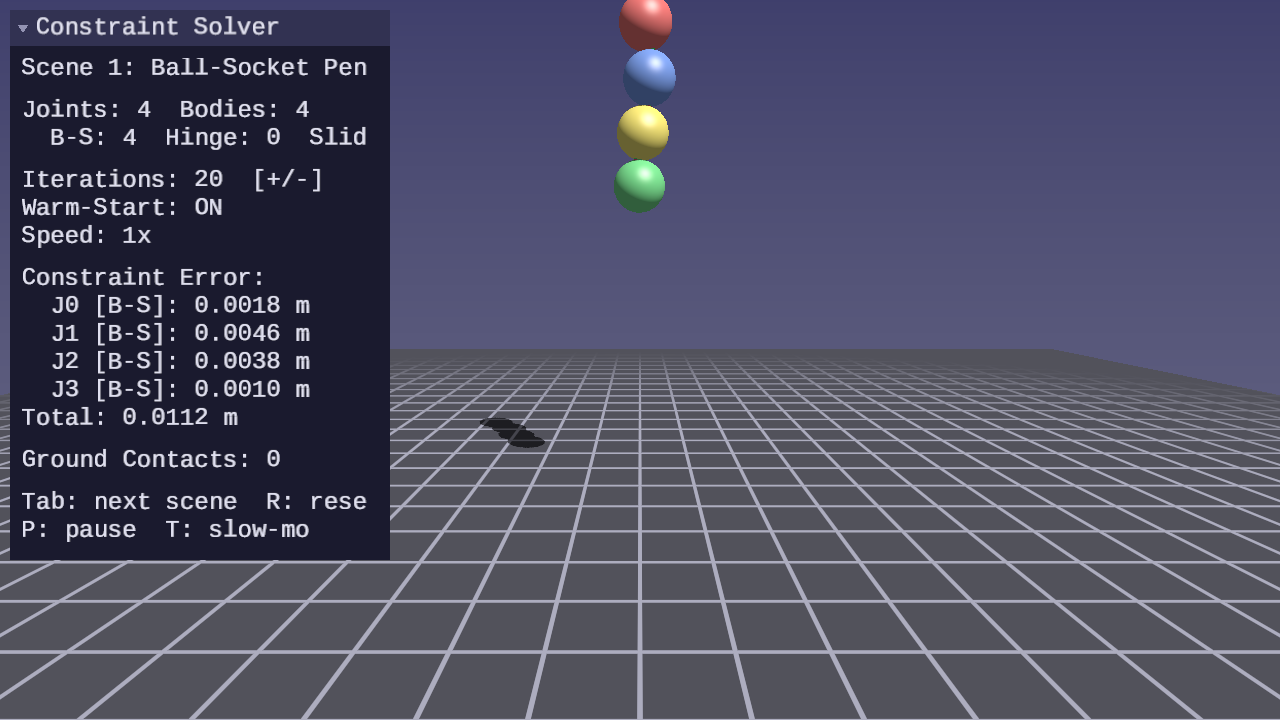
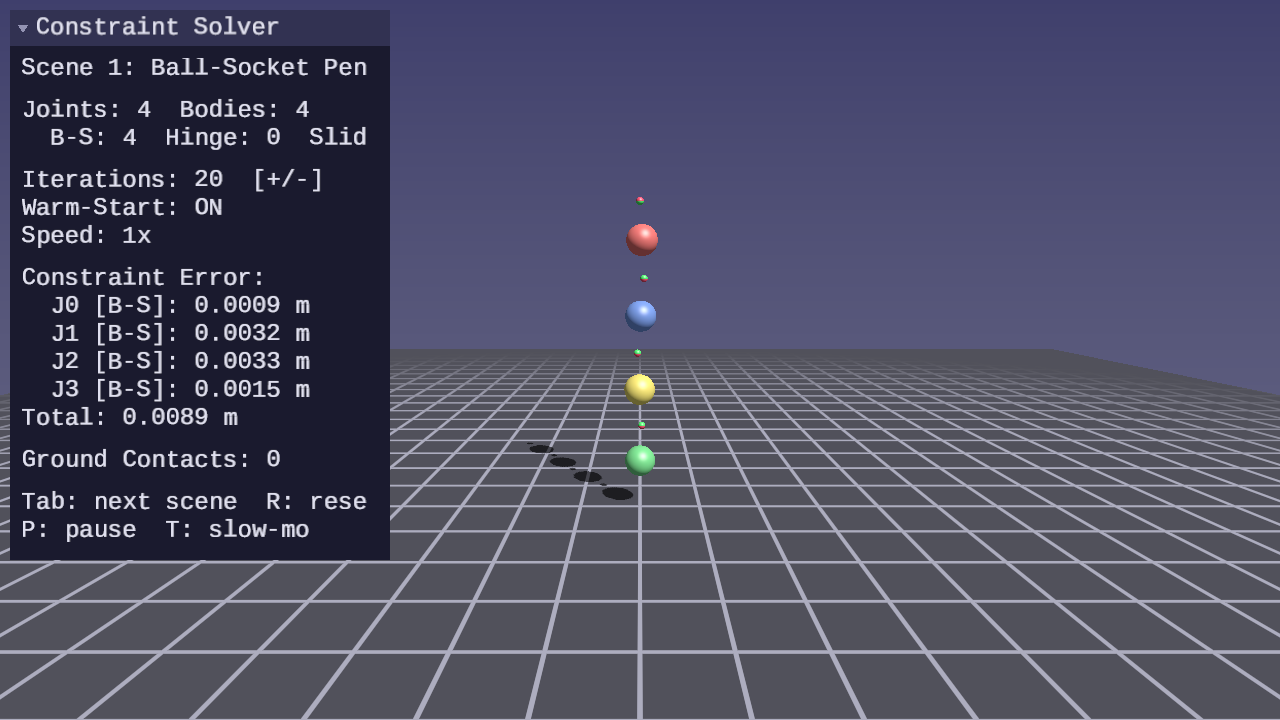
Fix: Physics L13 ball proportions — smaller, lower, more spread out (#372)
Pendulum chain spheres were too large (0.4 radius), anchored too high
(y=8), and packed too tightly (0.8 gap). Reduced sphere radii across
all scenes, lowered anchor points, and increased arm lengths so the
chain links have visible separation. Added animation GIF to README.

Files changed:
- lessons/physics/13-constraint-solver/main.c — smaller radii, lower
  anchors, longer arm gaps in scenes 1/2/4
- lessons/physics/13-constraint-solver/README.md — embed animation.gif
- lessons/physics/13-constraint-solver/assets/screenshot.png — updated
- lessons/physics/13-constraint-solver/assets/animation.gif — updated

diff --git a/lessons/physics/13-constraint-solver/main.c b/lessons/physics/13-constraint-solver/main.c
@@ -212,18 +212,19 @@ static void setup_scene_pendulum(app_state *state)
     state->num_bodies = 0;
     state->num_joints = 0;
 
-    float link_size = 0.4f;
-    float top_y = 8.0f;
-    /* Gap = 2 * link_size so adjacent anchors (bottom of body i at
-     * -link_size, top of body i+1 at +link_size) meet exactly. */
-    float link_gap = 2.0f * link_size;
+    float link_size = 0.25f;
+    float top_y = 5.0f;
+    /* Arm length between link centers — longer than 2*link_size so the
+     * chain hangs with visible gaps between the spheres. */
+    float link_gap = 1.2f;
+    float half_arm = link_gap * 0.5f;
 
     const float *link_colors[] = { COLOR_RED, COLOR_BLUE, COLOR_YELLOW, COLOR_GREEN };
 
     /* Create chain links — positions aligned so joint anchors coincide.
-     * Body 0 center sits one link_size below the world anchor (top_y). */
+     * Body 0 center sits one half-arm below the world anchor (top_y). */
     for (int i = 0; i < 4; i++) {
-        float y = top_y - link_size - (float)i * link_gap;
+        float y = top_y - half_arm - (float)i * link_gap;
         add_body(state, vec3_create(0, y, 0), DEFAULT_MASS,
                  SHAPE_SPHERE, link_size, link_size, link_size,
                  link_colors[i]);
@@ -234,7 +235,7 @@ static void setup_scene_pendulum(app_state *state)
     /* Joint 0: world anchor to body 0 */
     state->joints[0] = forge_physics_joint_ball_socket(
         0, -1,
-        vec3_create(0, link_size, 0),            /* top of body 0 */
+        vec3_create(0, half_arm, 0),             /* top anchor on body 0 */
         vec3_create(0, top_y, 0));               /* world anchor */
     state->num_joints = 1;
 
@@ -242,8 +243,8 @@ static void setup_scene_pendulum(app_state *state)
     for (int i = 0; i < 3; i++) {
         state->joints[state->num_joints] = forge_physics_joint_ball_socket(
             i, i + 1,
-            vec3_create(0, -link_size, 0),       /* bottom of body i */
-            vec3_create(0,  link_size, 0));       /* top of body i+1 */
+            vec3_create(0, -half_arm, 0),        /* bottom anchor on body i */
+            vec3_create(0,  half_arm, 0));        /* top anchor on body i+1 */
         state->num_joints++;
     }
 }
@@ -290,8 +291,9 @@ static void setup_scene_hinge(app_state *state)
 
     state->bodies[turn].angular_velocity = vec3_create(0, 3.0f, 0);
 
-    /* Second hinge: pendulum with X-axis rotation */
-    float pend_r = 0.35f;
+    /* Second hinge: pendulum with Z-axis rotation */
+    float pend_r = 0.2f;
+    float pend_arm = 0.6f;      /* distance from sphere center to hinge point */
     int pend = add_body(state,
         vec3_create(-4, 3, 0),
         1.5f, SHAPE_SPHERE, pend_r, pend_r, pend_r,
@@ -299,7 +301,7 @@ static void setup_scene_hinge(app_state *state)
 
     state->joints[2] = forge_physics_joint_hinge(
         pend, -1,
-        vec3_create(0, pend_r, 0),
+        vec3_create(0, pend_arm, 0),
         vec3_create(-4, 5, 0),
         vec3_create(0, 0, 1));                    /* Z-axis rotation */
     state->num_joints = 3;
@@ -367,26 +369,27 @@ static void setup_scene_combined(app_state *state)
     state->num_joints = 0;
 
     /* Ball-socket pendulum (2 links) on the left */
-    float link_r = 0.3f;
+    float link_r = 0.2f;
+    float arm_len = 1.0f;       /* distance between link centers */
+    float half_arm = arm_len * 0.5f;
     float world_anchor_y = 5.0f;
-    /* Place p0 so its top anchor (+link_r) coincides with the world anchor */
+    /* Place p0 one half-arm below the world anchor */
     int p0 = add_body(state,
-        vec3_create(-4, world_anchor_y - link_r, 0), 2.0f,
+        vec3_create(-4, world_anchor_y - half_arm, 0), 2.0f,
         SHAPE_SPHERE, link_r, link_r, link_r, COLOR_RED);
-    /* Position p1 so its top anchor (+link_r) meets p0's bottom anchor (-link_r):
-     * p1_y = p0_y - 2 * link_r */
+    /* Position p1 one arm-length below p0 */
     int p1 = add_body(state,
-        vec3_create(-4, world_anchor_y - link_r - 2.0f * link_r, 0), 2.0f,
+        vec3_create(-4, world_anchor_y - half_arm - arm_len, 0), 2.0f,
         SHAPE_SPHERE, link_r, link_r, link_r, COLOR_ORANGE);
 
     state->joints[0] = forge_physics_joint_ball_socket(
         p0, -1,
-        vec3_create(0, link_r, 0),
-        vec3_create(-4, 5, 0));
+        vec3_create(0, half_arm, 0),
+        vec3_create(-4, world_anchor_y, 0));
     state->joints[1] = forge_physics_joint_ball_socket(
         p0, p1,
-        vec3_create(0, -link_r, 0),
-        vec3_create(0, link_r, 0));
+        vec3_create(0, -half_arm, 0),
+        vec3_create(0, half_arm, 0));
     state->num_joints = 2;
 
     /* Give pendulum a sideways push */

diff --git a/lessons/physics/13-constraint-solver/README.md b/lessons/physics/13-constraint-solver/README.md
@@ -17,6 +17,8 @@ Generalized velocity-level joint constraints solved with sequential impulses.
 
 ![Lesson 13 result](assets/screenshot.png)
 
+![Lesson 13 animation](assets/animation.gif)
+
 Four interactive scenes demonstrate each joint type. Bodies are connected
 by constraints that restrict their relative motion — a pendulum chain
 swings freely at ball-socket joints, a door rotates on a hinge axis, and
